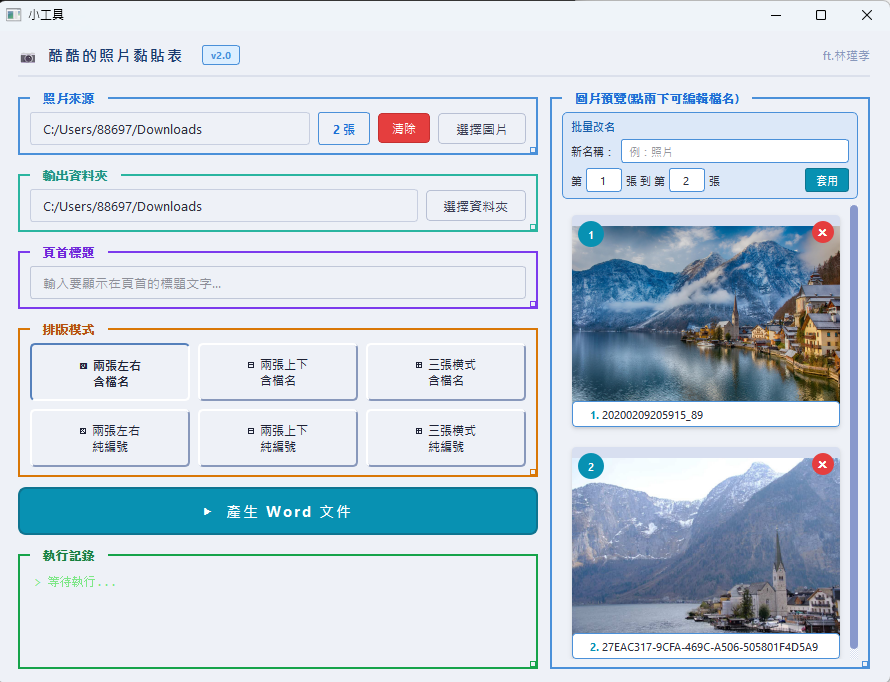
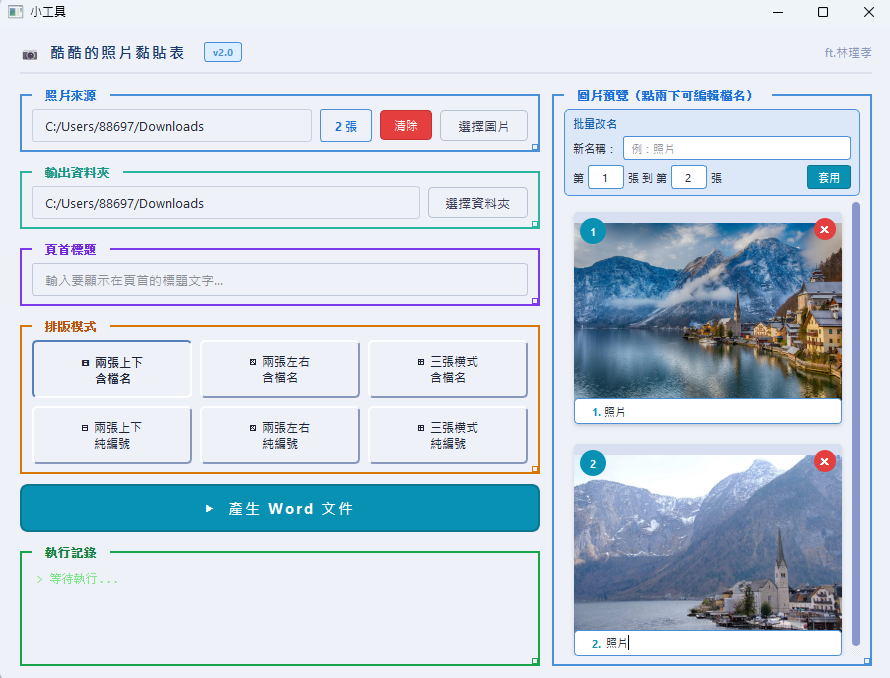
docs: add template screenshot and update README; fix layout mode order in ui.py

diff --git a/py檔/ui.py b/py檔/ui.py
@@ -196,9 +196,8 @@ def _run_2row_portrait_filename(
     section.top_margin = section.bottom_margin = Cm(1.27)
     setup_header(document, section, title_text)
 
-    PIC_WIDTH = Cm(16)
-    PIC_ROW_HEIGHT = Cm(12)
-    NAME_ROW_HEIGHT = Pt(28.35)
+    # 用寬度限制圖片（避免橫向圖超出頁面），列高由圖片自然撐開
+    PIC_WIDTH = Cm(15.5)
 
     tbl = document.add_table(rows=len(image_file_path) * 2, cols=1)
     tbl.alignment = WD_TABLE_ALIGNMENT.CENTER
@@ -206,24 +205,25 @@ def _run_2row_portrait_filename(
     for i, (img_path, img_name) in enumerate(
         zip(image_file_path, image_file_name_noext)
     ):
-        # 圖片列：固定高度，圖片用寬度限制（不會超出儲存格）
-        row_pic = tbl.rows[i * 2]
-        row_pic.height = PIC_ROW_HEIGHT
-        row_pic.height_rule = WD_ROW_HEIGHT_RULE.EXACTLY
         cell_pic = tbl.cell(i * 2, 0)
         cell_pic.vertical_alignment = WD_ALIGN_VERTICAL.CENTER
         p_pic = cell_pic.paragraphs[0]
         p_pic.add_run().add_picture(open_image_as_stream(img_path), width=PIC_WIDTH)
         p_pic.alignment = WD_ALIGN_PARAGRAPH.CENTER
-        # 名稱列
         cell_name = tbl.cell(i * 2 + 1, 0)
         cell_name.vertical_alignment = WD_ALIGN_VERTICAL.CENTER
         p_name = cell_name.paragraphs[0]
         set_run_font(p_name.add_run(img_name))
         p_name.alignment = WD_ALIGN_PARAGRAPH.CENTER
         row_name = tbl.rows[i * 2 + 1]
-        row_name.height = NAME_ROW_HEIGHT
+        row_name.height = Pt(28.35)
         row_name.height_rule = WD_ROW_HEIGHT_RULE.EXACTLY
+
+    # 圖片列設為「最小高度 10.5cm」，效果同 Word 表格內容→列→最小高度
+    for i in range(len(image_file_path)):
+        row_pic = tbl.rows[i * 2]
+        row_pic.height = Cm(10.5)
+        row_pic.height_rule = WD_ROW_HEIGHT_RULE.AT_LEAST
 
     delete_first_paragraph_if_empty(document)
     delete_trailing_empty_paragraphs(document)
@@ -257,32 +257,31 @@ def _run_2row_portrait_number(
     section.top_margin = section.bottom_margin = Cm(1.27)
     setup_header(document, section, title_text)
 
-    PIC_WIDTH = Cm(16)
-    PIC_ROW_HEIGHT = Cm(12)
-    NAME_ROW_HEIGHT = Cm(1)
+    PIC_WIDTH = Cm(15.5)
 
     tbl = document.add_table(rows=len(image_file_path) * 2, cols=1)
     tbl.alignment = WD_TABLE_ALIGNMENT.CENTER
     tbl.style = "Table Grid"
     for i, img_path in enumerate(image_file_path):
-        # 圖片列：固定高度，圖片用寬度限制
-        row_pic = tbl.rows[i * 2]
-        row_pic.height = PIC_ROW_HEIGHT
-        row_pic.height_rule = WD_ROW_HEIGHT_RULE.EXACTLY
         cell_pic = tbl.cell(i * 2, 0)
         cell_pic.vertical_alignment = WD_ALIGN_VERTICAL.CENTER
         p_pic = cell_pic.paragraphs[0]
         p_pic.add_run().add_picture(open_image_as_stream(img_path), width=PIC_WIDTH)
         p_pic.alignment = WD_ALIGN_PARAGRAPH.CENTER
-        # 名稱列
         cell_name = tbl.cell(i * 2 + 1, 0)
         cell_name.vertical_alignment = WD_ALIGN_VERTICAL.CENTER
         p_name = cell_name.paragraphs[0]
         set_run_font(p_name.add_run(f"編號{i + 1}"))
         p_name.alignment = WD_ALIGN_PARAGRAPH.CENTER
         row_name = tbl.rows[i * 2 + 1]
-        row_name.height = NAME_ROW_HEIGHT
+        row_name.height = Cm(1)
         row_name.height_rule = WD_ROW_HEIGHT_RULE.EXACTLY
+
+    # 圖片列設為「最小高度 10.5cm」
+    for i in range(len(image_file_path)):
+        row_pic = tbl.rows[i * 2]
+        row_pic.height = Cm(10.5)
+        row_pic.height_rule = WD_ROW_HEIGHT_RULE.AT_LEAST
 
     delete_first_paragraph_if_empty(document)
     delete_trailing_empty_paragraphs(document)
@@ -406,11 +405,11 @@ def _run_2col_portrait_number(
 
 # 模式名稱 → 對應函式
 MODE_MAP = {
-    "1頁兩張左右（含檔名）": _run_2col_portrait_filename,
     "1頁兩張上下（含檔名）": _run_2row_portrait_filename,
+    "1頁兩張左右（含檔名）": _run_2col_portrait_filename,
     "1頁三張橫式（含檔名）": _run_3col_landscape_filename,
-    "1頁兩張左右（純編號）": _run_2col_portrait_number,
     "1頁兩張上下（純編號）": _run_2row_portrait_number,
+    "1頁兩張左右（純編號）": _run_2col_portrait_number,
     "1頁三張橫式（純編號）": _run_3col_landscape_number,
 }
 
@@ -1160,11 +1159,11 @@ class CardContainer(QWidget):
 
 # 模式按鈕顯示文字（順序對應 MODE_MAP）
 MODE_LABELS = [
-    "⊠  兩張左右\n含檔名",
     "⊟  兩張上下\n含檔名",
+    "⊠  兩張左右\n含檔名",
     "⊞  三張橫式\n含檔名",
-    "⊠  兩張左右\n純編號",
     "⊟  兩張上下\n純編號",
+    "⊠  兩張左右\n純編號",
     "⊞  三張橫式\n純編號",
 ]
 
@@ -1406,7 +1405,7 @@ class MainWindow(QWidget):
         body_layout.addWidget(left_widget)
 
         # ── 右側預覽面板（預設隱藏，選圖後展開）──
-        self.preview_frame = TechFrame("圖片預覽(點兩下可編輯檔名)", theme="blue")
+        self.preview_frame = TechFrame("圖片預覽（點兩下可編輯檔名）", theme="blue")
         self.preview_frame.setFixedWidth(320)
         self.preview_frame.setVisible(False)
 

diff --git a/README.md b/README.md
@@ -12,12 +12,18 @@
 
 ---
 
+## 輸出範例
+
+![輸出範例](docs/screenshot_template.png)
+
+---
+
 ## 功能特色
 
 - 多張照片一次選取，自動依檔名排序
 - 六種排版模式，可隨時切換：
-  - 1 頁兩張左右（含檔名 / 純編號）
   - 1 頁兩張上下（含檔名 / 純編號）
+  - 1 頁兩張左右（含檔名 / 純編號）
   - 1 頁三張橫式（含檔名 / 純編號）
 - 右側即時預覽縮圖，可拖曳調整照片順序（iOS 風格）
 - 雙擊卡片名稱可就地編輯單張照片名稱
